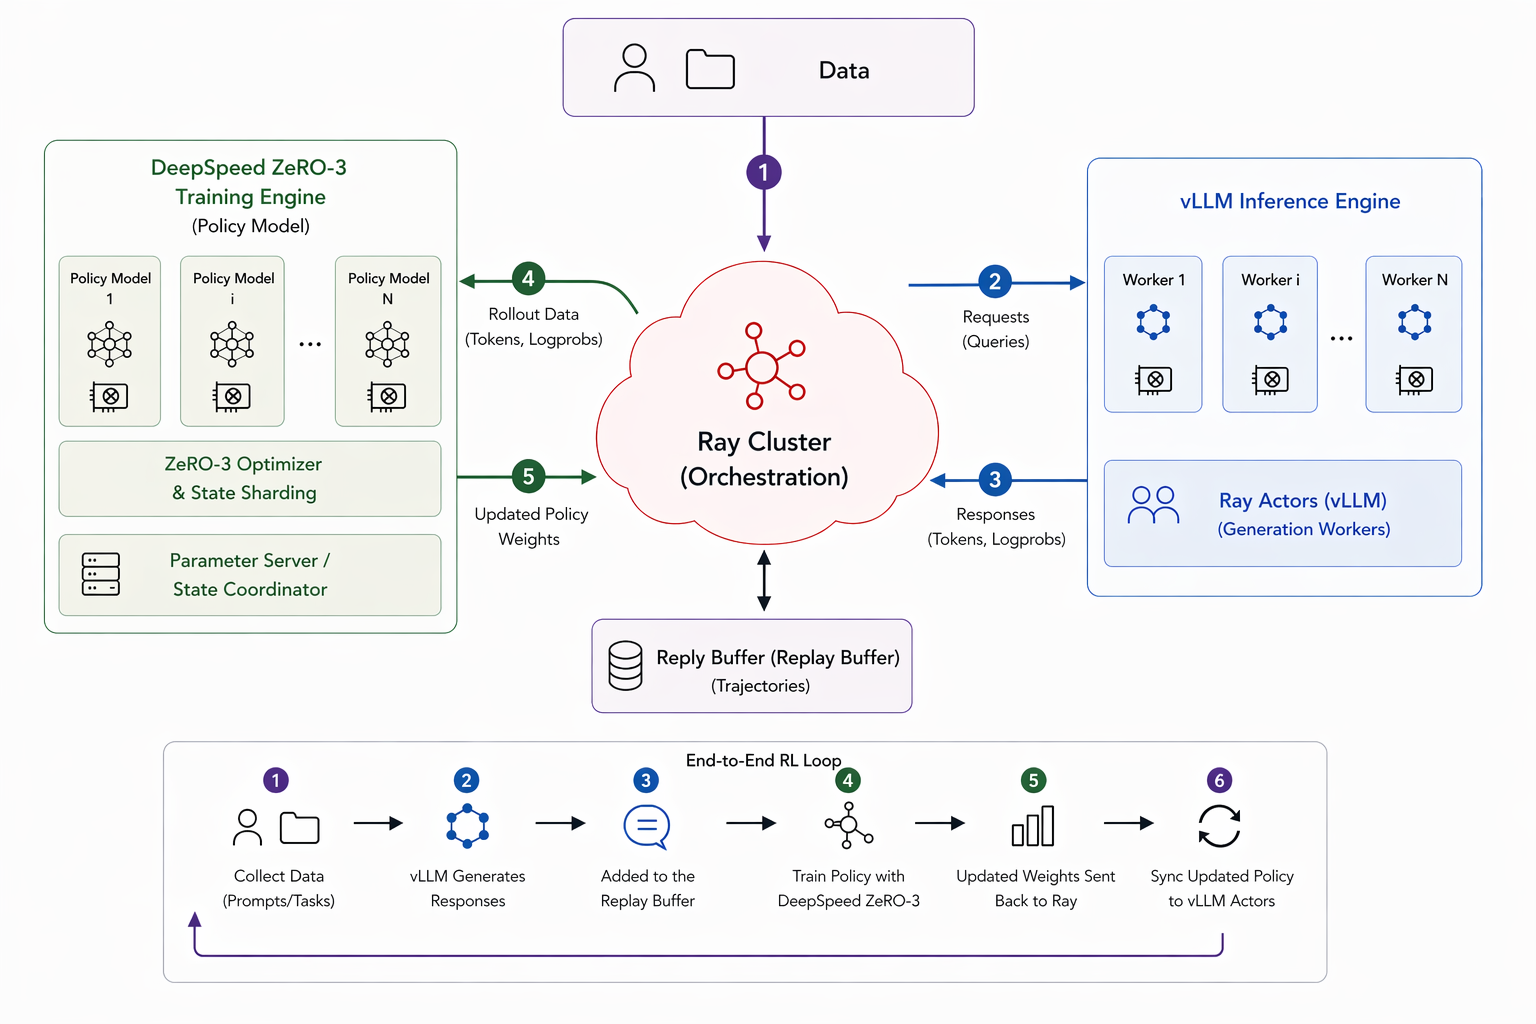
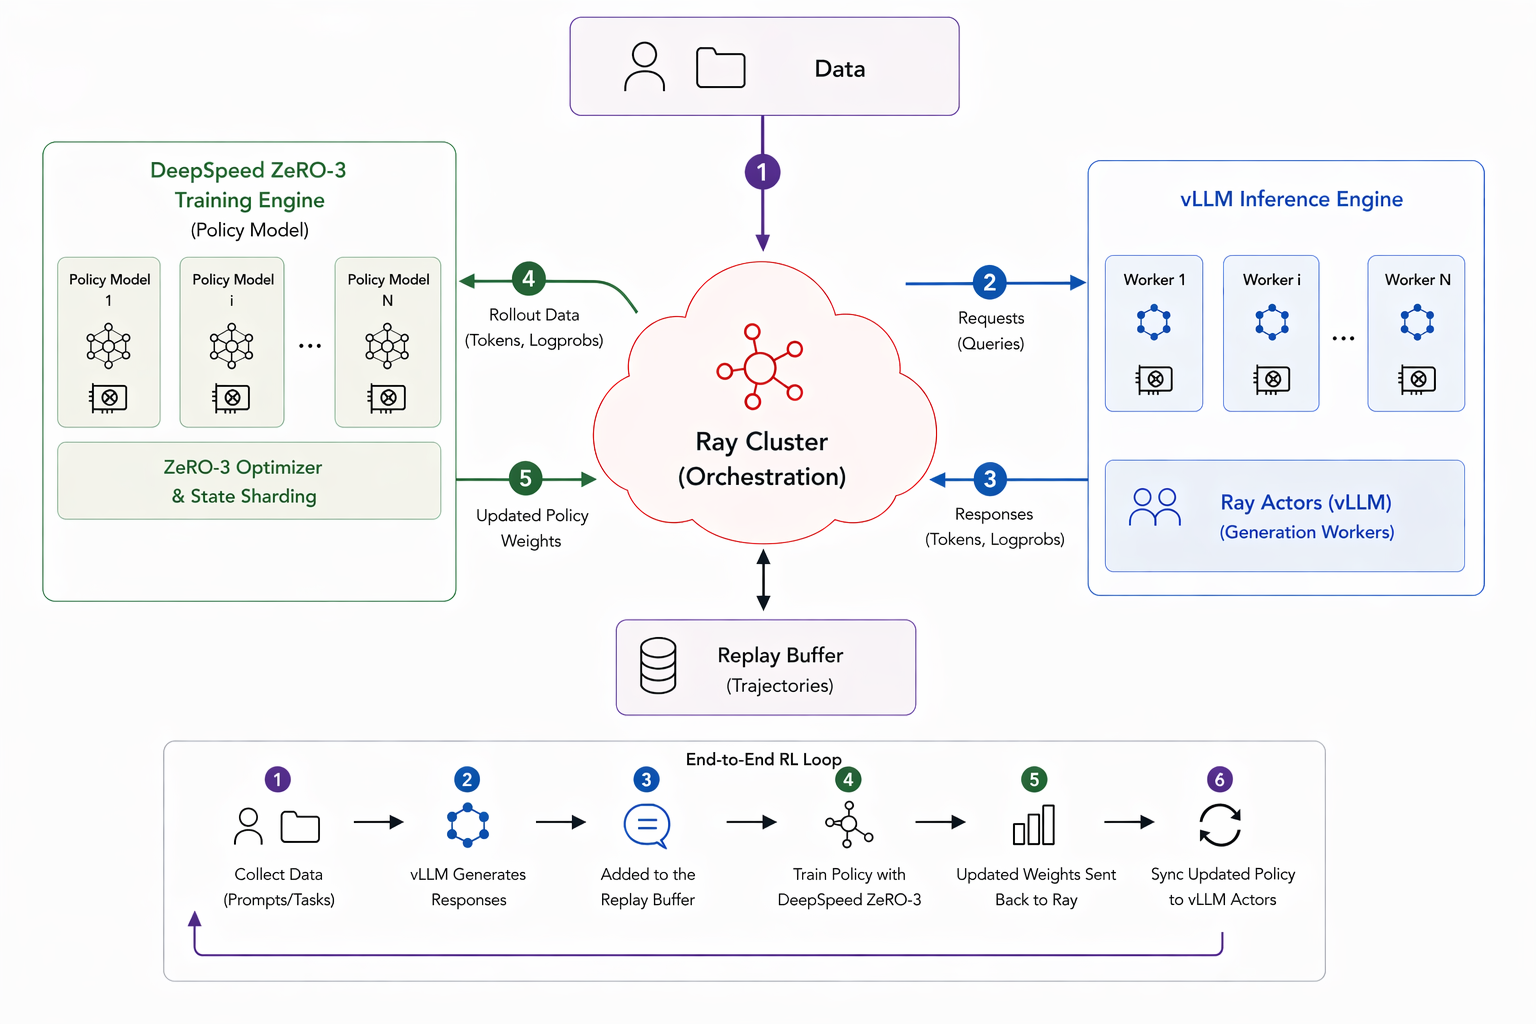
modify architecture image

diff --git a/blogs/episode_one.html b/blogs/episode_one.html
@@ -51,16 +51,22 @@
         large-scale RL systems are to build and maintain.
       </p>
 
-      <p>
-        FeynRL is motivated by this gap. Its purpose is specific: to provide the systems needed for realistic
-        large-model training while keeping the algorithmic, data, and systems layers modular, legible, and separable.
-        The goal is to make it easier to build and study new RL methods for large models without turning every
-        algorithmic idea into an infrastructure project. In reverse, someone working on a new rollout engine, async
-        scheduler, or weight-sync backend should be able to do that without wading through algorithm code. Importantly,
-        FeynRL is also built with training stability in mind: methods include the practical stabilization details often
-        omitted from other implementations, which are typically what separates an algorithm that works on paper from one
-        that works at scale.
-      </p>
+      <div class="article-callout">
+        <p class="article-callout-kicker">FeynRL Is Motivated by This Gap.</p>
+        <p>
+          FeynRL is motivated by this gap. Its purpose is specific: to provide the systems needed for realistic
+          large-model training while keeping the algorithmic, data, and systems layers modular, legible, and separable.
+          The goal is to make it easier to build and study new RL methods for large models without turning every
+          algorithmic idea into an infrastructure project. In reverse, someone working on a new rollout engine, async
+          scheduler, or weight-sync backend should be able to do that without wading through algorithm code.
+          Importantly,
+          FeynRL is also built with training stability in mind: methods include the practical stabilization details
+          often
+          omitted from other implementations, which are typically what separates an algorithm that works on paper from
+          one
+          that works at scale.
+        </p>
+      </div>
 
       <p>
         FeynRL should be viewed as orthogonal to existing frameworks rather than a criticism of them. Many current
@@ -71,8 +77,6 @@
       </p>
 
       <img src="assets/episode_one/feynrl_separation.png" alt="FeynRL separates data, system, and algorithm concerns">
-
-      <div class="article-break" aria-hidden="true"></div>
 
       <h2>High-Level Overview</h2>
 
@@ -87,9 +91,22 @@
 
       <p>
         Concretely, FeynRL supports supervised fine-tuning, preference learning, and reinforcement learning in a shared
-        structure. It includes methods such as SFT, DPO, PPO, GRPO, CISPO, and P3O, together with rollout engines such
-        as <a href="https://github.com/vllm-project/vllm" target="_blank" rel="noreferrer">vLLM</a>, orchestration with
-        <a href="https://github.com/ray-project/ray" target="_blank" rel="noreferrer">Ray</a>, distributed optimization
+        structure. It includes methods such as <a href="https://github.com/boson-ai/FeynRL/blob/main/algs/SFT/README.md"
+          target="_blank" rel="noreferrer">SFT</a>,
+        <a href="https://github.com/boson-ai/FeynRL/blob/main/algs/DPO/README.md" target="_blank"
+          rel="noreferrer">DPO</a>,
+        <a href="https://github.com/boson-ai/FeynRL/blob/main/algs/PPO/README.md" target="_blank"
+          rel="noreferrer">PPO</a>,
+        <a href="https://github.com/boson-ai/FeynRL/blob/main/algs/GRPO/README.md" target="_blank"
+          rel="noreferrer">GRPO</a>,
+        <a href="https://github.com/boson-ai/FeynRL/blob/main/algs/CISPO/README.md" target="_blank"
+          rel="noreferrer">CISPO</a>, and
+        <a href="https://github.com/boson-ai/FeynRL/blob/main/algs/P3O/README.md" target="_blank"
+          rel="noreferrer">P3O</a>,
+        together with rollout engines such as <a href="https://github.com/vllm-project/vllm" target="_blank"
+          rel="noreferrer">vLLM</a>,
+        orchestration with <a href="https://github.com/ray-project/ray" target="_blank" rel="noreferrer">Ray</a>,
+        distributed optimization
         with <a href="https://github.com/microsoft/DeepSpeed" target="_blank" rel="noreferrer">DeepSpeed</a>, sync and
         async execution modes, and modular reward, data, and evaluation layers. These components matter not because the
         project is trying to maximize scope, but because they provide the minimum substrate needed to investigate RL
@@ -106,8 +123,6 @@
 
       <img src="assets/episode_one/feynrl_architecture.png"
         alt="FeynRL architecture across algorithms, rollouts, and orchestration">
-
-      <div class="article-break" aria-hidden="true"></div>
 
       <h2>Sync vs Async</h2>
 

diff --git a/styles.css b/styles.css
@@ -306,6 +306,27 @@ td,
   color: var(--muted);
 }
 
+.article-callout {
+  margin-top: 20px;
+  padding: 20px 22px;
+  border: 1px solid var(--accent);
+  background: var(--accent-soft);
+}
+
+.article-callout-kicker {
+  margin: 0 0 10px;
+  color: var(--accent);
+  font-size: 0.82rem;
+  font-weight: 700;
+  letter-spacing: 0.04em;
+  text-transform: uppercase;
+}
+
+.article-callout p {
+  margin-top: 0;
+  color: var(--fg);
+}
+
 .article-break {
   width: 72px;
   height: 1px;

diff --git a/blogs/episode_one.md b/blogs/episode_one.md
@@ -6,7 +6,10 @@ These problems do not disappear in large-model post-training. They are joined by
 
 This matters because tooling shapes what becomes easy to study. When even a modest algorithmic change requires touching rollout code, orchestration, distributed training, and data plumbing all at once, many ideas become too expensive to test seriously. In practice, that pushes experimentation toward methods that already fit the existing stack. That is not a criticism of current frameworks; it is a natural consequence of how costly large-scale RL systems are to build and maintain.
 
-FeynRL is motivated by this gap. Its purpose is specific: to provide the systems needed for realistic large-model training while keeping the algorithmic, data, and systems layers modular, legible, and separable. The goal is to make it easier to build and study new RL methods for large models without turning every algorithmic idea into an infrastructure project. In reverse, someone working on a new rollout engine, async scheduler, or weight-sync backend should be able to do that without wading through algorithm code. Importantly, FeynRL is also built with training stability in mind: methods include the practical stabilization details often omitted from other implementations, which are typically what separates an algorithm that works on paper from one that works at scale.
+<div class="article-callout">
+<p class="article-callout-kicker">FeynRL Is Motivated by This Gap.</p>
+<p>FeynRL is motivated by this gap. Its purpose is specific: to provide the systems needed for realistic large-model training while keeping the algorithmic, data, and systems layers modular, legible, and separable. The goal is to make it easier to build and study new RL methods for large models without turning every algorithmic idea into an infrastructure project. In reverse, someone working on a new rollout engine, async scheduler, or weight-sync backend should be able to do that without wading through algorithm code. Importantly, FeynRL is also built with training stability in mind: methods include the practical stabilization details often omitted from other implementations, which are typically what separates an algorithm that works on paper from one that works at scale.</p>
+</div>
 
 FeynRL should be viewed as orthogonal to existing frameworks rather than a criticism of them. Many current frameworks are powerful, highly optimized, and extremely useful. FeynRL is built around a different tradeoff: it prioritizes clarity, locality of change, and method development while still supporting realistic large-scale post-training. The goal is not to avoid systems work, but to keep systems complexity from swallowing the algorithmic layer.
 
@@ -16,7 +19,7 @@ FeynRL should be viewed as orthogonal to existing frameworks rather than a criti
 
 Separation of concerns is the central design principle. Someone building a new RL algorithm should not need to work through a deeply entangled codebase spanning rollout workers, orchestration, data plumbing, and distributed execution just to change a loss or update rule. The reverse should also hold: someone building a new rollout engine or sync strategy should not have to touch every algorithm implementation. At the same time, FeynRL is not a toy framework. It supports realistic large-model post-training with the systems needed to run at scale, while remaining interpretable enough to modify without rewriting the whole stack.
 
-Concretely, FeynRL supports supervised fine-tuning, preference learning, and reinforcement learning in a shared structure. It includes methods such as SFT, DPO, PPO, GRPO, CISPO, and P3O, together with rollout engines such as [vLLM](https://github.com/vllm-project/vllm), orchestration with [Ray](https://github.com/ray-project/ray), distributed optimization with [DeepSpeed](https://github.com/microsoft/DeepSpeed), sync and async execution modes, and modular reward, data, and evaluation layers. These components matter not because the project is trying to maximize scope, but because they provide the minimum substrate needed to investigate RL methods seriously at large-model scale while keeping the layers cleanly separable.
+Concretely, FeynRL supports supervised fine-tuning, preference learning, and reinforcement learning in a shared structure. It includes methods such as [SFT](https://github.com/boson-ai/FeynRL/blob/main/algs/SFT/README.md), [DPO](https://github.com/boson-ai/FeynRL/blob/main/algs/DPO/README.md), [PPO](https://github.com/boson-ai/FeynRL/blob/main/algs/PPO/README.md), [GRPO](https://github.com/boson-ai/FeynRL/blob/main/algs/GRPO/README.md), [CISPO](https://github.com/boson-ai/FeynRL/blob/main/algs/CISPO/README.md), and [P3O](https://github.com/boson-ai/FeynRL/blob/main/algs/P3O/README.md), together with rollout engines such as [vLLM](https://github.com/vllm-project/vllm), orchestration with [Ray](https://github.com/ray-project/ray), distributed optimization with [DeepSpeed](https://github.com/microsoft/DeepSpeed), sync and async execution modes, and modular reward, data, and evaluation layers. These components matter not because the project is trying to maximize scope, but because they provide the minimum substrate needed to investigate RL methods seriously at large-model scale while keeping the layers cleanly separable.
 
 Under the hood, FeynRL is organized along three axes that can be worked on independently: **algorithms** (the loss and update rules), **rollouts** (generation, rewards, and replay), and **orchestration** (distributed execution and weight synchronization between the training and inference engines). These layers communicate through narrow interfaces, so a new RL method is usually a new loss and update rule rather than a rewrite of the execution graph.
 